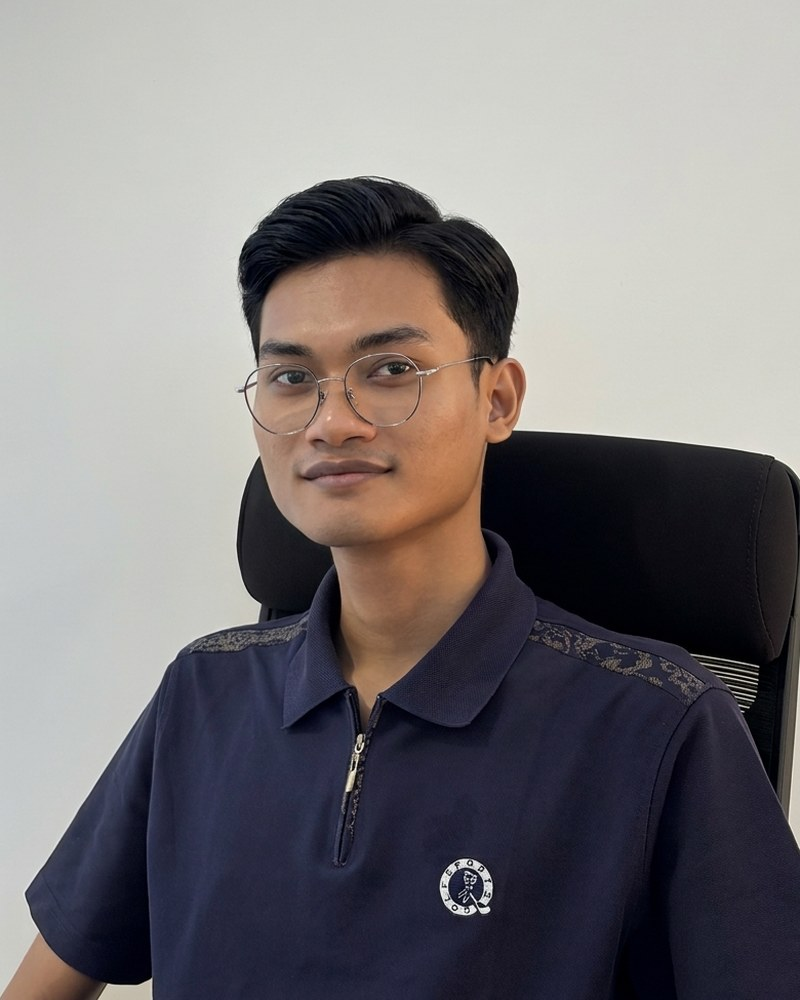
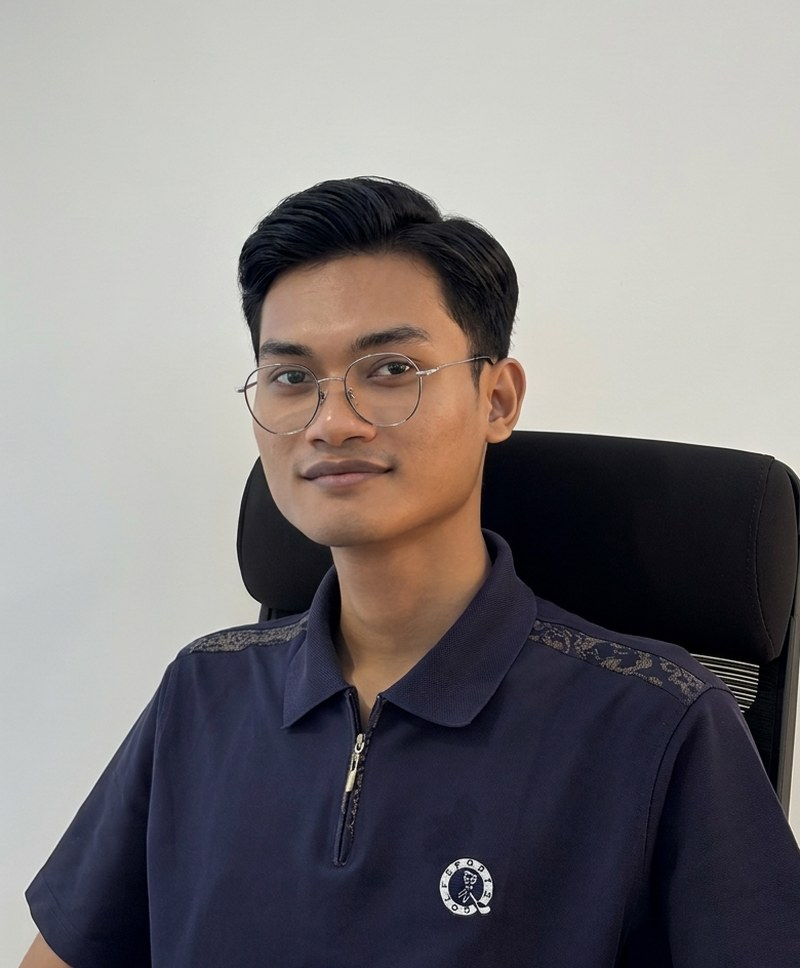
content: trim portrait bottom 32px; fill Guava card image
- Portrait re-cropped from source, 32px tighter at the bottom (800x968)
- Guava card drops the contain/letterbox fit so the image fills the frame

Changed region(s): [[0.0, 0.155, 1.0, 1.0], [0.5312, 0.8368, 0.625, 0.9607], [0.8125, 0.7748, 0.8438, 0.8368]]

diff --git a/index.html b/index.html
@@ -100,7 +100,7 @@
         <article class="project-card reveal" data-type="independent"><div class="project-media project-image" style="background-image:url('images/memechat.jpg')"><span class="media-status"><i></i> offline · live</span></div><div class="project-info"><div class="project-meta"><span>Independent / 2026</span><span>02</span></div><h3>MemeChat</h3><p>An AI chat that actually knows memes. Ask, roast, caption, translate — a full vision-language model runs entirely on your phone through a custom llama.cpp bridge, with Vulkan acceleration and zero cloud calls. Free, offline, no account.</p><div class="tech-stack"><i>Kotlin</i><i>MiniCPM-V</i><i>llama.cpp</i><i>Vulkan</i></div><a href="https://memechat.dream-team.works" target="_blank" rel="noopener" class="project-link">Visit MemeChat <span>↗</span></a></div></article>
         <article class="project-card reveal" data-type="independent"><div class="project-media project-image" style="background-image:url('images/cobatik.jpg')"><span class="media-status"><i></i> free · no account</span></div><div class="project-info"><div class="project-meta"><span>Independent / 2026</span><span>03</span></div><h3>CoBatik</h3><p>Try on Indonesia’s heritage. Browse a curated archive of hand-drawn batik — Cirebon, Yogyakarta, Pekalongan, Lasem — take a portrait, and watch the motif render onto you in real time. Free, no account required.</p><div class="tech-stack"><i>Kotlin</i><i>CameraX</i><i>On-device AI</i></div><a href="https://cobatik.dream-team.works" target="_blank" rel="noopener" class="project-link">Visit CoBatik <span>↗</span></a></div></article>
         <article class="project-card reveal" data-type="independent"><div class="project-media project-image" style="background-image:url('images/zetaai.jpg')"><span class="media-status"><i></i> v1.0 release</span></div><div class="project-info"><div class="project-meta"><span>Independent / 2026</span><span>04</span></div><h3>ZetaAI</h3><p>An offline AI companion for every screen you own. Chat, voice and an animated avatar that keeps its personality between sessions — on macOS, Windows, Linux, iOS and Android. No cloud, no account, no telemetry.</p><div class="tech-stack"><i>On-device LLM</i><i>Voice</i><i>Cross-platform</i></div><a href="https://zeta.dream-team.works" target="_blank" rel="noopener" class="project-link">Visit ZetaAI <span>↗</span></a></div></article>
-        <article class="project-card reveal" data-type="independent"><div class="project-media project-image" style="background-image:url('images/project-3.jpg');background-size:contain;background-repeat:no-repeat;background-position:center"><span class="media-status"><i></i> research-backed</span></div><div class="project-info"><div class="project-meta"><span>Independent / 2024</span><span>05</span></div><h3>Guava Disease Scanner</h3><p>Real-time guava leaf disease detection with a custom CNN, built from published research and tuned for low-latency offline inference through CameraX.</p><div class="tech-stack"><i>CameraX</i><i>TFLite</i><i>CNN</i></div><a href="https://github.com/DaniZakaria63/MyGuavaScanner" target="_blank" rel="noopener" class="project-link">View project <span>↗</span></a></div></article>
+        <article class="project-card reveal" data-type="independent"><div class="project-media project-image" style="background-image:url('images/project-3.jpg')"><span class="media-status"><i></i> research-backed</span></div><div class="project-info"><div class="project-meta"><span>Independent / 2024</span><span>05</span></div><h3>Guava Disease Scanner</h3><p>Real-time guava leaf disease detection with a custom CNN, built from published research and tuned for low-latency offline inference through CameraX.</p><div class="tech-stack"><i>CameraX</i><i>TFLite</i><i>CNN</i></div><a href="https://github.com/DaniZakaria63/MyGuavaScanner" target="_blank" rel="noopener" class="project-link">View project <span>↗</span></a></div></article>
       </div>
     </div></section>
 
